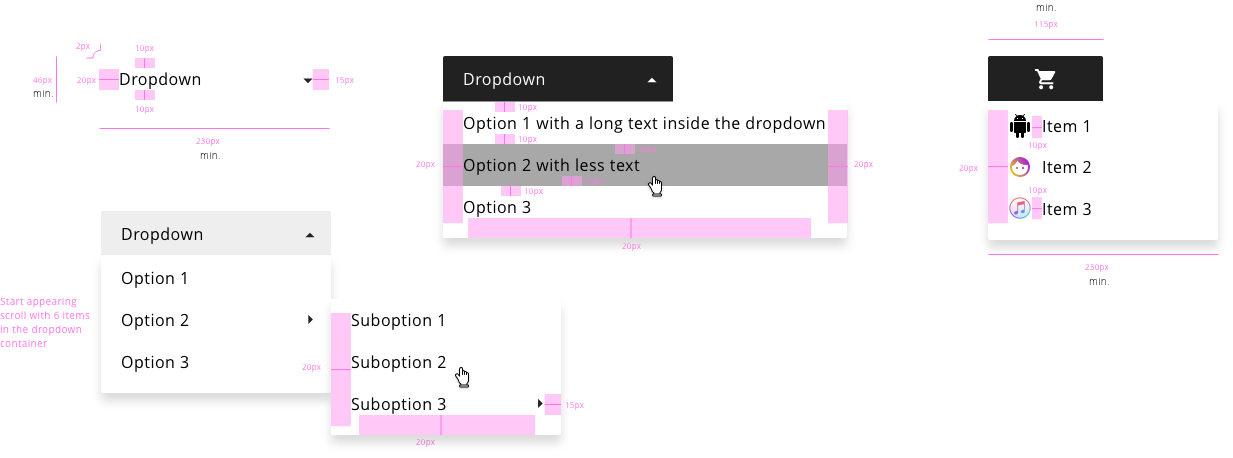
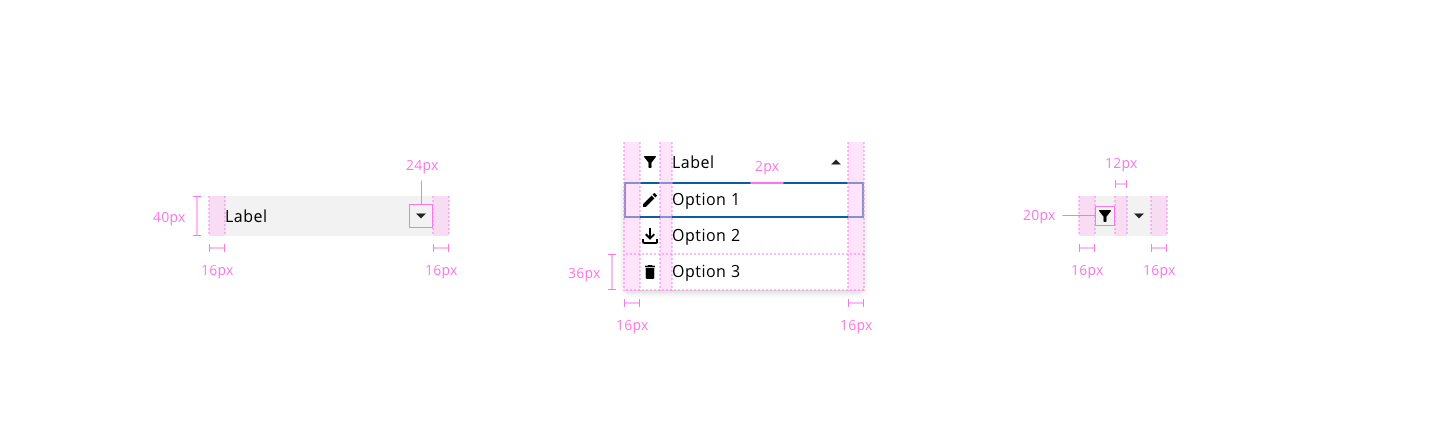
update dropdown docs in guidelines/components

diff --git a/guidelines/components/dropdown/README.md b/guidelines/components/dropdown/README.md
@@ -2,65 +2,60 @@
 
 The use of dropdowns has its advantages but it depends on the screen support. Dropdowns are a standard widget, so the users know how to interact with them. The options available in a dropdown component are static, so this prevents from erroneous data entered by the user since it only shows a range of correct values for that input.
 
-A dropdown in mobile is more unusable than a dropdown in a web application, regarding screen spacing, size of elements and scannability in the number of options to display.
 
 ## Appearance
 
 Dropdowns have a similar look and behaviour to select components, the difference is that while select is only to collect user's data into a form, dropdown can be used in a variety of scenarios.
 
-From header menus to executing different actions, dropdowns can be useful as a list of items that will be shown when the user clicks or hovers their main parent that will trigger the pop up with the options.
-
-As it is widely used, an arrow linked with the label of the dropdown should be shown to indicate the user that more options are available but are currently hidden.
-
-By default, every dropdown will be extending underneath his main container if the space in the screen is enough to contain all the size declared for the pop-up.
-
-If the dropdown has options with submenus, this will be indicated with an arrow too, but in this case, the submenu appears by the right side, so the direction of the arrow should be placed in correspondence.
-
-Once an option is selected by the user, the main container has to reflect the option chosen and the dropdown has to be closed after the user's click.
+* Dropdowns can be useful as a list of items that will be shown when the user clicks or hovers their main parent that will trigger the pop up with the options.
+* An arrow linked with the label of the dropdown should be shown to indicate the user that more options are available but are currently hidden.
+* By default, every dropdown will be extending underneath his main container if the space in the screen is enough to contain all the size declared for the pop-up.
 
 If there is a special case when the dropdown couldn't be displayed below the selector because it is hiding important information reducing discoverability and scanability in the website then consider to use other options to display the information or customize the position of the pop up to fitting the necessities of the application.
 
-### Modes
 
-There is a **default** mode for the dropdown component.
+## States
 
-![Dropdown modes](images/dropdown_modes.png)
+### Dropdown button
 
-### States
+States: **enabled**, **hover**, **focus**, **active** and **disabled**.
 
-Six different states for the dropdown elememts: **default**, **dropdown displayed**, **option hovered**, **option selected**, **submenu displayed** and **option selected (no dropdown)**.
+![Dropdown button states](images/dropdown_states.png)
 
-![Dropdown modes](images/dropdown_states.png)
+### Option list
 
-### Design tokens
+States: **enabled**, **hover**, **focus** and **selected**:
 
-| Tokens                  | Default value |
-| ----------------------- | ------------: |
-| backgroundColor         |     `#FFFFFF` |
-| fontColor               |     `#000000` |
-| dropdownBackgroundColor |     `#FFFFFF` |
-| dropdownFontColor       |     `#000000` |
-| hoverBackgroundOption   |     `#FFFFFF` |
-| hoverBackgroundColor    |     `#FFFFFF` |
-| scrollBarThumbColor     |     `#666666` |
-| scrollBarTrackColor     |     `#D9D9D9` |
-| focusColor              |     `#005FCC` |
+![Dropdown option list states](images/dropdown_option_list_states.png)
 
-The dropdown itself cannot be configured, the component only allows the configuration of the trigger through the background color and the color of the text.
 
 ## Design Specifications
 
-**Width**
+### Color
+
+| Tokens                    | Value       |
+| -----------------------   | ----------- |
+| `backgroundColor`         |     #FFFFFF |
+| `fontColor`               |     #000000 |
+| `dropdownBackgroundColor` |     #FFFFFF |
+| `dropdownFontColor`       |     #000000 |
+| `hoverBackgroundOption`   |     #FFFFFF |
+| `hoverBackgroundColor`    |     #FFFFFF |
+| `scrollBarThumbColor`     |     #666666 |
+| `scrollBarTrackColor`     |     #D9D9D9 |
+| `focusColor`              |     #005FCC |
+
+### Width
 
 width | Value
 -- | --
 `small` | 60px
-`medium` | 240px
+`medium` _(default)_ | 240px
 `large` | 480px
 `fitContent` | -
 `fillParent` | -
 
-**Margin**
+### Margin
 
 margin | Value
 -- | --
@@ -72,43 +67,43 @@ margin | Value
 `xlarge` | 64px
 `xxlarge` | 100px
 
-**Padding**
+### Padding
 
-Default dropdown `padding` values
+| Property        | Element         | Value     |
+| --------------- | ----------      | --------- |
+| `padding-left` | Dropdown button  | 16px      |
+| `padding-left` | Options list     | 16px      |
+| `padding-right`| Dropdown button  | 16px      |
+| `padding-right`| Options list     | 16px      |
 
-| Padding left/right             |   `20px/15px` |
--- | --
-| Padding top/bottom             |   `10px/10px` |
 
-Dropdown displayed list elements `padding` values
+### Border
 
-| Options padding top/bottom    | `10px` |
--- | --
-| Options padding left/right    | `20px` |
-| Last option padding bottom    | `20px` |
+| Property        | Element         | Value     |
+| --------------- | ----------      | --------- |
+| `border-radius` | Dropdown button | 4px       |
+| `border-radius` | Options list    | 4px       |
+| `border-width`  | Focus outline   | 2px       |
 
-**Border-radius**
 
-Default dropdown & displayed list options container `border-radius` value
+### Typography
 
-Border radius                  |         `2px` |
--- | --
+| Property        | Element         | Value     |
+| --------------- | ----------      | ----------|
+| `font-size`     | Dropdown button | 1rem/16px |
+| `font-size`     | List item       | 1rem/16px |
+| `font-weight`   | Dropdown button | 400       |
+| `font-weight`   | List item       | 400       |
 
-**Font-weight**
 
-Dropdown label & list options `font-weight` value
+## Iconography
 
-Font weight                    |     `Regular` |
--- | --
 
-**Icon-size**
+| Property          | Element         | Value     |
+| ---------------   | ----------      | ----------|
+| `height`/ `width` | Caret           | 24/24px   |
+| `height`/ `width` | Custom icon     | 20/20px   |
 
-Default dropdown & displayed `icon-size` value
-
-Icon size                      | value |
--- | --
-Caret                          | `24x24px` |
-Custom icon                    | `20x20px` |
 
 
 ![Dropdown specifications](images/dropdown_specs.png)
@@ -118,6 +113,35 @@ Custom icon                    | `20x20px` |
 It is allowed the use of icons within the dropdown component. There are several options of configuration, the icon can be placed before or after the label, also the icon can be the unique content of the dropdown placeholder and options, so the final goal of this is to keep consistency with the rest of the components of the design system such as buttons or selects, that have the same behavior.
 
 ![Icon usage](images/dropdown_icon_usage.png)
+
+## Accessibility
+
+### WCAG 2.2
+
+**Understanding WCAG 2.2** - [SC 1.4.13: Content on Hover or Focus](https://www.w3.org/WAI/WCAG22/Understanding/content-on-hover-or-focus.html)
+
+"Where receiving and then removing pointer hover or keyboard focus triggers additional content to become visible and then hidden, the following are true:
+
+* **Dismissible**: A mechanism is available to dismiss the additional content without moving pointer hover or keyboard focus, unless the additional content communicates an input error or does not obscure or replace other content;
+* **Hoverable**: If pointer hover can trigger the additional content, then the pointer can be moved over the additional content without the additional content disappearing;
+* **Persistent**: The additional content remains visible until the hover or focus trigger is removed, the user dismisses it, or its information is no longer valid."
+
+**Understanding WCAG 2.2** - [SC 3.2.2: On Input](https://www.w3.org/WAI/WCAG22/Understanding/on-input.html)
+
+"Changing the setting of any user interface component does not automatically cause a change of context unless the user has been advised of the behavior before using the component."
+
+### WAI-ARIA 1.2
+
+**WAI-ARIA Authoring Practices 1.2** - [3.16 Menu button](https://www.w3.org/TR/wai-aria-practices-1.2/#menubutton)
+
+* "The element that opens the menu has role `button`."
+* "The element with role `button` has `aria-haspopup` set to either menu or true."
+* "When the menu is displayed, the element with role `button` has`aria-expanded` set to true. When the menu is hidden, it is recommended that `aria-expanded` is not present. If `aria-expanded` is specified when the menu is hidden, it is set to false."
+* "The element that contains the menu items displayed by activating the button has role `menu`."
+* "Optionally, the element with role `button` has a value specified for `aria-controls` that refers to the element with role menu."
+* "Additional roles, states, and properties needed for the menu element are described in [3.15 Menu or Menu bar](https://www.w3.org/TR/wai-aria-practices-1.2/#menu)."
+
+
 
 ## User Interface Design Considerations
 
